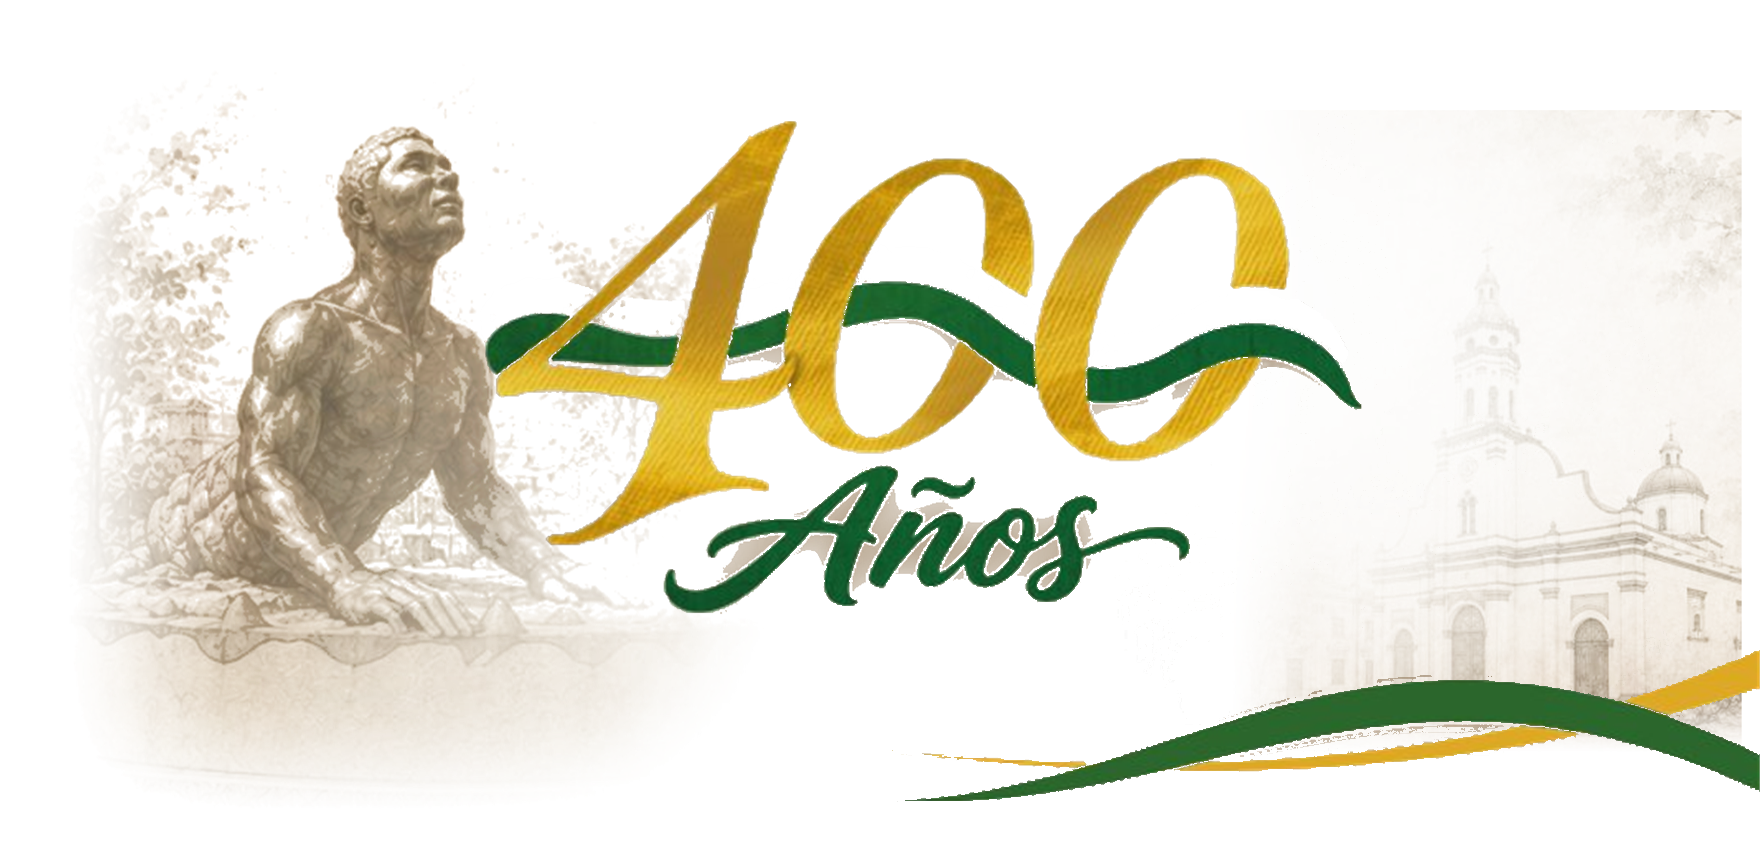
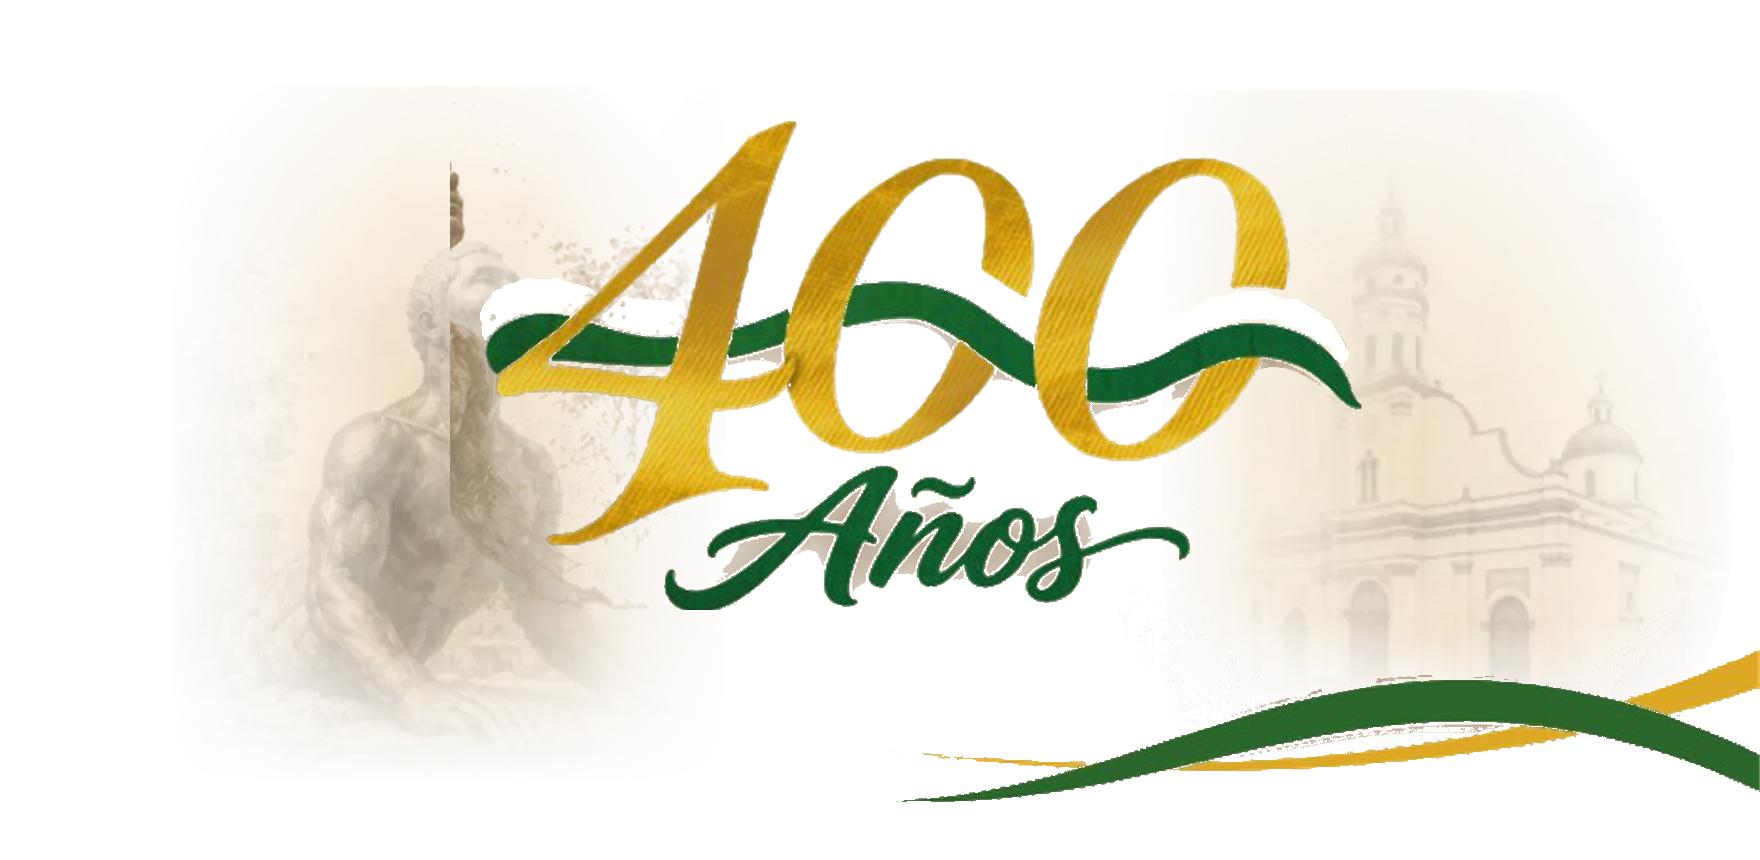
feat(hero): integrar ilustraciones oficiales en alta resolucion y reposicionar iglesia a la izquierda

diff --git a/src/app/pages/home/home.html b/src/app/pages/home/home.html
@@ -39,7 +39,7 @@
     <div class="hero-right-artwork">
       <figure class="artwork-figure">
         <img
-          src="hero-400-target-v2.png"
+          src="hero-400-target-v3.png"
           [alt]="t().heroAlt"
           class="artwork-composite-img"
           fetchpriority="high"
